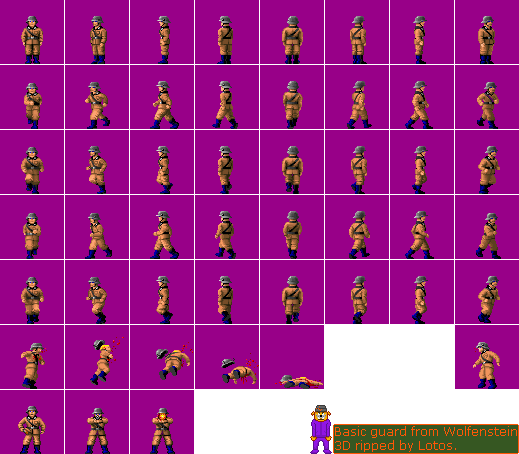
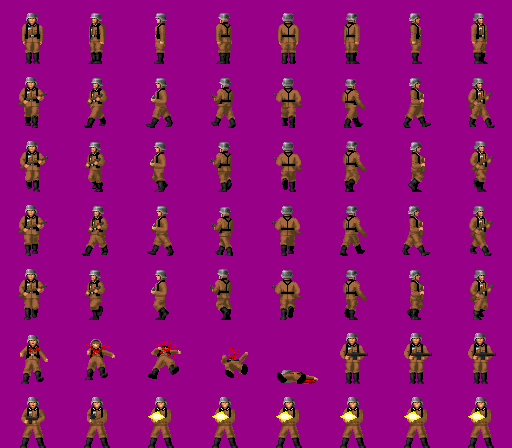
added animation for the gun

diff --git a/player.cpp b/player.cpp
@@ -1,0 +1,74 @@
+#include "player.h"
+
+void Player::drawVisor(FrameBuffer &fb) {
+  // params of the players visor
+  size_t visorWidth = 16; //in pixels
+  size_t visorHeight = 16;
+  size_t visorThickness = 2;
+  size_t centerEmpty = 4;
+  uint32_t visorColor = pack_color(255, 0, 0); //color of the visor
+
+  fb.draw_rectangle(fb.w/2 + fb.w/4 - visorWidth/2, fb.h/2 - visorThickness/2, visorWidth/2 - centerEmpty/2, visorThickness, visorColor);
+  fb.draw_rectangle(fb.w/2 + fb.w/4 + centerEmpty/2, fb.h/2 - visorThickness/2, visorWidth/2 - centerEmpty/2, visorThickness, visorColor);
+  fb.draw_rectangle(fb.w/2 + fb.w/4 - visorThickness/2, fb.h/2 - visorHeight/2, visorThickness, visorHeight/2 -centerEmpty/2, visorColor);
+  fb.draw_rectangle(fb.w/2 + fb.w/4 - visorThickness/2, fb.h/2 + centerEmpty/2, visorThickness, visorHeight/2 -centerEmpty/2, visorColor);
+}
+
+void Player::drawLifeJauge(FrameBuffer &fb) {
+  // params of the players visor
+  size_t lengthfull = 100; //in pixels
+  size_t height = 30;
+  size_t x = fb.w - 10 - lengthfull;
+  size_t y = fb.h - 10 - height;
+
+  uint32_t emptyColor = pack_color(0, 0, 0); //color of the empty life gauge
+  uint32_t fullColor = pack_color(255, 0, 0); //color of the full life gauge
+
+  fb.draw_rectangle(x, y, lengthfull*life/100.0, height, fullColor);
+  fb.draw_rectangle(x + lengthfull*life/100.0, y, lengthfull - lengthfull*life/100.0, height, emptyColor);
+}
+
+void Player::drawWeapon(FrameBuffer &fb) {
+
+    //parameters to put weapon in the middle
+    size_t screen_size = 400;
+    int h_offset = 45;
+    int v_offset = 130;
+
+    for (size_t i=0; i<screen_size; i++) {
+        if (h_offset+int(i)<0 || h_offset+i>=fb.w/2) continue;
+        for (size_t j=0; j<screen_size; j++) {
+            if (v_offset+int(j)<0 || v_offset+j>=fb.h) continue;
+            uint32_t color = texture.get(i*texture.size_x/screen_size, j*texture.size_y/screen_size, weapon_text_id);
+            uint8_t r,g,b,a;
+            unpack_color(color, r, g, b, a);
+            if (a>128){
+              fb.set_pixel(fb.w/2 + h_offset+i, v_offset+j, color);
+            }
+          }
+    }
+
+    if (fire) {animationFinished = false; timeStartedAnime_secs = std::chrono::high_resolution_clock::now();}
+    if (!animationFinished) animate();
+}
+
+void Player::animate(){
+  timeDurationCurrentAnime_secs =  std::chrono::high_resolution_clock::now() - timeStartedAnime_secs; //duration from the start of the animation
+  weapon_text_id = weapon_text_ids[0];
+  if (timeDurationCurrentAnime_secs > fireAnimationTimes_secs[0] && timeDurationCurrentAnime_secs <= fireAnimationTimes_secs[1])
+    weapon_text_id = weapon_text_ids[1];
+  else if (timeDurationCurrentAnime_secs > fireAnimationTimes_secs[1] && timeDurationCurrentAnime_secs <= fireAnimationTimes_secs[2])
+    weapon_text_id = weapon_text_ids[2];
+  else if (timeDurationCurrentAnime_secs > fireAnimationTimes_secs[2] && timeDurationCurrentAnime_secs <= fireAnimationTimes_secs[3])
+    weapon_text_id = weapon_text_ids[3];
+  else if (timeDurationCurrentAnime_secs > fireAnimationTimes_secs[3] && timeDurationCurrentAnime_secs <= fireAnimationTimes_secs[4])
+    weapon_text_id = weapon_text_ids[4];
+  else if (timeDurationCurrentAnime_secs > fireAnimationTimes_secs[4])
+    {timeStartedAnime_secs = std::chrono::high_resolution_clock::now(); animationFinished = true;}
+}
+
+void Player::render(FrameBuffer &fb){
+  drawVisor(fb);
+  drawLifeJauge(fb);
+  drawWeapon(fb);
+}

diff --git a/player.h b/player.h
@@ -1,35 +1,49 @@
 #ifndef PLAYER_H
 #define PLAYER_H
 
+#include <chrono>
+
+#include "textures.h"
+#include "framebuffer.h"
+
 class Player {
 
   public:
     Player(float x_in,
-                  float y_in,
-                  float a_in= M_PI/2.,
-                  float fov_in=M_PI/3.,
-                  int turn_in= 0,
-                  int walk_in= 0,
-                  bool fire_in= 0,
-                  float reloadTime_in= 0,
-                  float speed_in= 0.5,
-                  int life_in= 100,
-                  const float distShoot_in= 8.0,
-                  const size_t weapongDmgs_in= 25):
-                  x(x_in),
-                  y(y_in),
-                  a(a_in),
-                  fov(fov_in),
-                  turn(turn_in),
-                  walk(walk_in),
-                  fire(fire_in),
-                  reloadTime(reloadTime_in),
-                  speed(speed_in),
-                  life(life_in),
-                  distShoot(distShoot_in),
-                  weapongDmgs(weapongDmgs_in){};
-                  
+           float y_in,
+           Texture texture_in,
+           float a_in= M_PI/2.,
+           float fov_in=M_PI/3.,
+           int turn_in= 0,
+           int walk_in= 0,
+           bool fire_in= 0,
+           float reloadTime_in= 0,
+           float speed_in= 0.5,
+           int life_in= 100,
+           const float distShoot_in= 8.0,
+           const size_t weapongDmgs_in= 25):
+           x(x_in),
+           y(y_in),
+           texture(texture_in),
+           a(a_in),
+           fov(fov_in),
+           turn(turn_in),
+           walk(walk_in),
+           fire(fire_in),
+           reloadTime(reloadTime_in),
+           speed(speed_in),
+           life(life_in),
+           distShoot(distShoot_in),
+           weapongDmgs(weapongDmgs_in){
+
+             std::chrono::duration<double,  std::ratio<1>> d_fire(0.1);
+             fireAnimationTimes_secs = {d_fire, d_fire*2, d_fire*3, d_fire*4, d_fire*5};
+             weapon_text_ids = {5, 6, 7, 8, 9};
+             weapon_text_id = weapon_text_ids[0];
+           };
+
     float x, y; // position
+    Texture texture; //texture to put gun for instance
     float a;    // view direction
     float fov;  // field of view
     int turn, walk;
@@ -39,6 +53,19 @@ class Player {
     int life;
     const float distShoot = 8.0; //in wall size 16 usually
     const size_t weapongDmgs = 25; //dmgs the weapon can make with 1 shoot to the monsters
+    int weapon_text_id;
+    std::vector<int> weapon_text_ids;
+
+    bool animationFinished = true;
+    std::chrono::duration<double,  std::ratio<1>> timeDurationCurrentAnime_secs;
+    std::chrono::time_point<std::chrono::high_resolution_clock> timeStartedAnime_secs = std::chrono::high_resolution_clock::now();
+    std::vector<std::chrono::duration<double,  std::ratio<1>>> fireAnimationTimes_secs;
+
+    virtual void drawVisor(FrameBuffer &fb);
+    virtual void drawLifeJauge(FrameBuffer &fb);
+    virtual void drawWeapon(FrameBuffer &fb);
+    virtual void animate();
+    virtual void render(FrameBuffer &fb);
 };
 
 #endif // PLAYER_H

diff --git a/tinyraycaster.cpp b/tinyraycaster.cpp
@@ -35,34 +35,6 @@ void draw_map(FrameBuffer &fb, const std::vector<std::shared_ptr<Sprite>> sprite
     }
 }
 
-void draw_visor(FrameBuffer &fb) {
-  // params of the players visor
-  size_t visorWidth = 16; //in pixels
-  size_t visorHeight = 16;
-  size_t visorThickness = 2;
-  size_t centerEmpty = 4;
-  uint32_t visorColor = pack_color(255, 0, 0); //color of the visor
-
-  fb.draw_rectangle(fb.w/2 + fb.w/4 - visorWidth/2, fb.h/2 - visorThickness/2, visorWidth/2 - centerEmpty/2, visorThickness, visorColor);
-  fb.draw_rectangle(fb.w/2 + fb.w/4 + centerEmpty/2, fb.h/2 - visorThickness/2, visorWidth/2 - centerEmpty/2, visorThickness, visorColor);
-  fb.draw_rectangle(fb.w/2 + fb.w/4 - visorThickness/2, fb.h/2 - visorHeight/2, visorThickness, visorHeight/2 -centerEmpty/2, visorColor);
-  fb.draw_rectangle(fb.w/2 + fb.w/4 - visorThickness/2, fb.h/2 + centerEmpty/2, visorThickness, visorHeight/2 -centerEmpty/2, visorColor);
-}
-
-void draw_lifeJauge(FrameBuffer &fb, const GameState &gs) {
-  // params of the players visor
-  size_t lengthfull = 100; //in pixels
-  size_t height = 30;
-  size_t x = fb.w - 10 - lengthfull;
-  size_t y = fb.h - 10 - height;
-
-  uint32_t emptyColor = pack_color(0, 0, 0); //color of the empty life gauge
-  uint32_t fullColor = pack_color(255, 0, 0); //color of the full life gauge
-
-  fb.draw_rectangle(x, y, lengthfull*gs.player.life/100.0, height, fullColor);
-  fb.draw_rectangle(x + lengthfull*gs.player.life/100.0, y, lengthfull - lengthfull*gs.player.life/100.0, height, emptyColor);
-}
-
 void GameState::update(const double elapsed) {
 
   //updating the position of player and monsters
@@ -103,7 +75,7 @@ void GameState::update(const double elapsed) {
 
 void render(FrameBuffer &fb, GameState &gs) { // not a member of GameState struct
     const Map &map                                      = gs.map;
-    const Player &player                                = gs.player;
+    Player &player                                      = gs.player;
     const std::vector<std::shared_ptr<Sprite>> sprites  = gs.sprites;
     const Texture &tex_walls                            = gs.tex_walls;
 
@@ -146,6 +118,6 @@ void render(FrameBuffer &fb, GameState &gs) { // not a member of GameState struc
         sprites[i]->draw_sprite(fb, depth_buffer, player);
     }
 
-    draw_visor(fb);
-    draw_lifeJauge(fb, gs);
+    player.render(fb);
+
 }

diff --git a/gui.cpp b/gui.cpp
@@ -16,11 +16,15 @@ int main() {
     Texture death_knight = Texture("../death_knight.png", SDL_PIXELFORMAT_ABGR8888, 4, 3);        // textures for the monsters
     Texture static_monsters = Texture("../monsters.bmp", SDL_PIXELFORMAT_ABGR8888, 4, 1);
     Texture ss_guard = Texture("../ss.png", SDL_PIXELFORMAT_ABGR8888, 8, 7);
+    Texture guard = Texture("../guard.png", SDL_PIXELFORMAT_ABGR8888, 8, 7);
+    Texture weapons = Texture("../weapons.png", SDL_PIXELFORMAT_ABGR8888, 5, 4);
+    Texture objects = Texture("../objects.png", SDL_PIXELFORMAT_ABGR8888, 5, 10);
 
     GameState gs{ Map(),                                                                                             // game map
-                  {1.456, 1.345, M_PI/2, M_PI/3., 0, 0, 0, 0.5, true ,100},                                          // player
-                  {std::make_shared<Guard>(1.523, 8.812, ss_guard, 3, 0, 0.6, 0, 0, 100)},
-                   Texture("../walltext.bmp", SDL_PIXELFORMAT_ABGR8888, 6, 1)      };                                // textures for the walls
+                  {1.456, 1.345, weapons, M_PI/2, M_PI/3., 0, 0, 0, 0.5, true ,100},                                          // player
+                  {std::make_shared<Guard>(1.523, 8.812, guard, 3, 0, 0.6, 0, 0, 100),
+                   std::make_shared<Sprite>(1.523, 3.812, objects, 4)},
+                   Texture("../walltext.bmp", SDL_PIXELFORMAT_ABGR8888, 6, 1)};                                // textures for the walls
 
        // GameState gs{ Map(),                                                            // game map
        //               {1.456, 1.345, 0.523, M_PI/3., 0, 0, 0, 0.5, 1, 100},             // player

diff --git a/monsteranimated.h b/monsteranimated.h
@@ -9,6 +9,7 @@ struct MonsterAnimated : Monster {
     float distanceSameDirection; //travel in same direction count
     const int distanceWall = 1; //has to keep this position from a wall
     const float maxDistanceSameDirection = 3; //max distance monster can travel in same direction
+    bool firstMotion = true; //to start timer at the very first motion
 
     // using Monster::Monster; //inheriting constructor
     MonsterAnimated(float x_in,
@@ -22,7 +23,7 @@ struct MonsterAnimated : Monster {
                     int life_in = 0);
 
     virtual uint8_t changeColorLife(const uint8_t r) override {return r;};
-    
+
 };
 
 #endif // MONSTERANIMATED_H

diff --git a/textures.cpp b/textures.cpp
@@ -32,6 +32,12 @@ Texture::Texture(const std::string filename, const uint32_t format, const int co
             uint8_t g = pixmap[(i+j*w)*4+1];
             uint8_t b = pixmap[(i+j*w)*4+2];
             uint8_t a = pixmap[(i+j*w)*4+3];
+            //remove the purple and setting it to transparent as well as white (some textures files have this)
+            if (r == 152 && g == 0 && b == 136)
+              a = 0;
+            if (r == 255 && g == 255 && b == 255)
+              a = 0;
+              
             img[i+j*w] = pack_color(r, g, b, a);
         }
     }

diff --git a/guard.cpp b/guard.cpp
@@ -89,6 +89,7 @@ void Guard::updatePosition(const Map &map, const Player &player, const double el
 }
 
 void Guard::action(const Map &map, Player &player, const double elapsed){
+  if (firstMotion) {timeStartedAnime_secs = std::chrono::high_resolution_clock::now(); firstMotion = false;}
   animateMonster();
   switch(state) {
     case attack_state:

diff --git a/boss.cpp b/boss.cpp
@@ -59,6 +59,7 @@ void Boss::updatePosition(const Map &map, const Player &player, const double ela
 }
 
 void Boss::action(const Map &map, Player &player, const double elapsed){
+  if (firstMotion) {timeStartedAnime_secs = std::chrono::high_resolution_clock::now(); firstMotion = false;}
   animateMonster();
   switch(state) {
     case attack_state:
